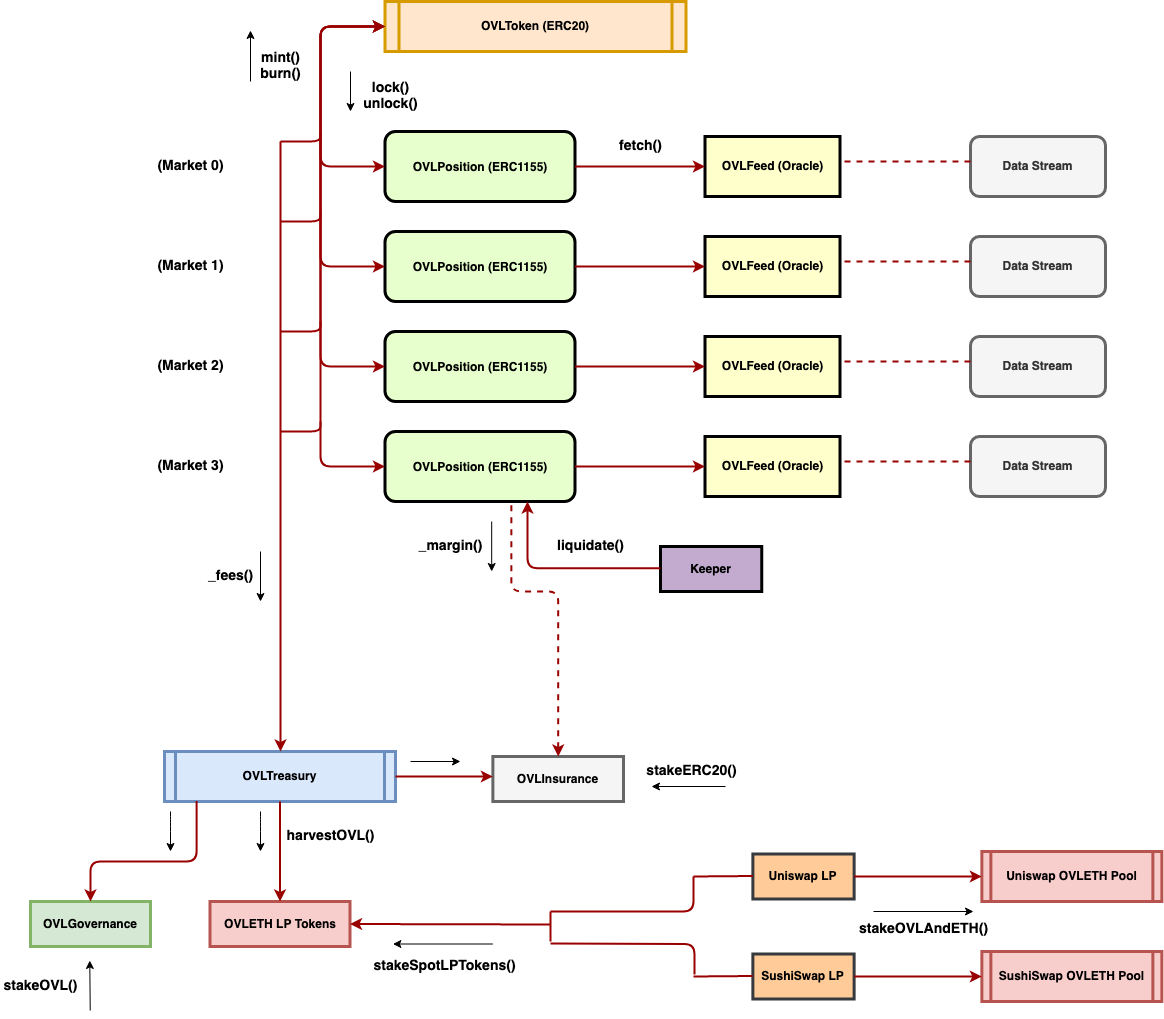
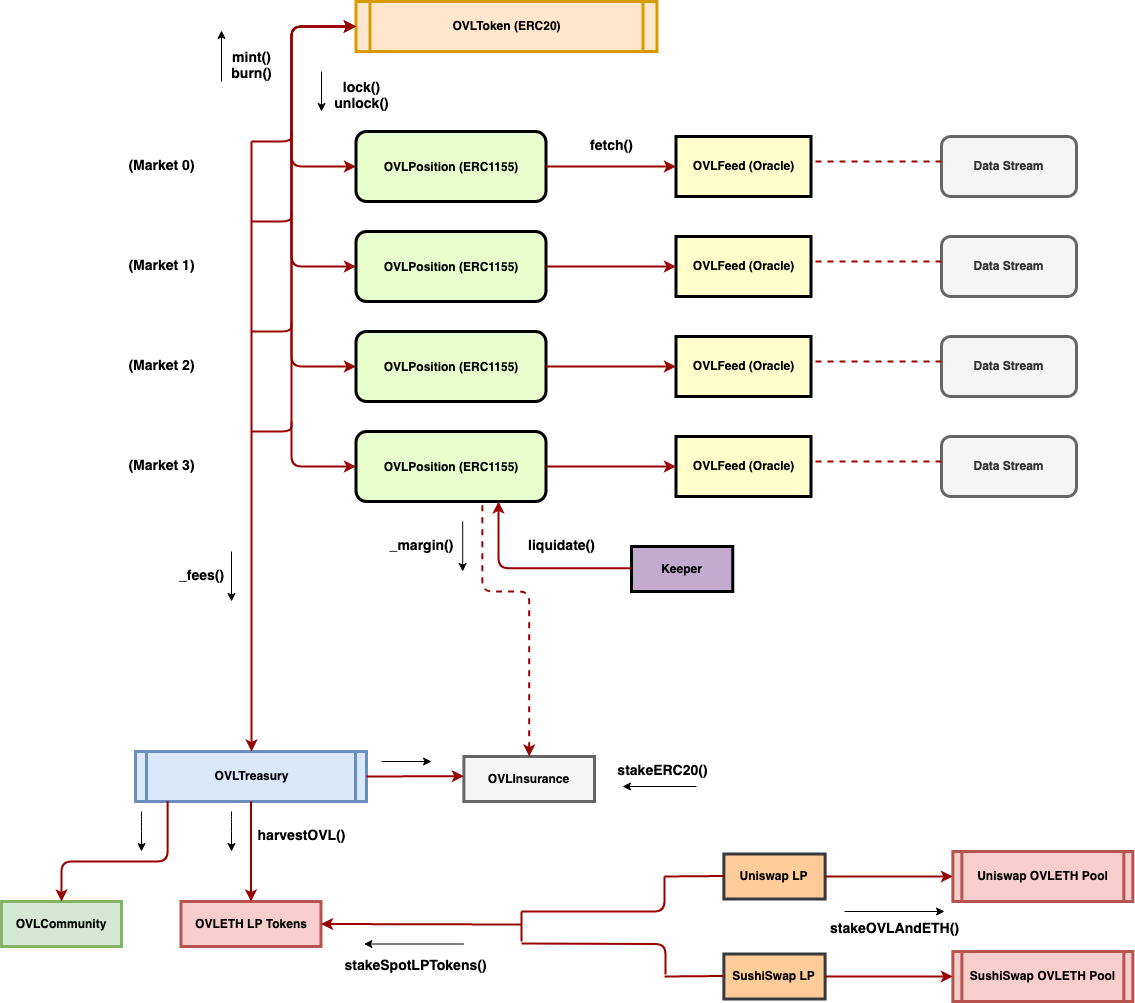
Revise incentives for community fund allocation in oip-1

diff --git a/OIPS/oip-1.md b/OIPS/oip-1.md
@@ -68,15 +68,17 @@ Given the complexity of the design changes, the rationale and trade-offs are add
 #### Monetary Policy
 Overlay's monetary policy relies on revenues from trading fees charged when a user of the protocol builds or unwinds a position on a data stream. A portion of these fees would be burned upon trade execution to help manage currency supply. The rest would be sent to a community governed treasury.
 
-Overlay’s community governed treasury would pass through these trading fees to incentivize spot market liquidity providers (LPs), governance participants, and insurance fund providers as compensation for each of their services.
+Overlay’s community governed treasury would pass through these trading fees to incentivize spot market liquidity providers (LPs), insurance fund providers, and a community operations fund as compensation for each of their services.
 
-The following is a high-level overview for each of the roles:
+The following is a high-level overview for the roles of each of the core participants supporting the protocol:
 
 - **Spot Market LPs:** enable traders to swap OVL for ETH to enter/exit the Overlay system. LPs stake their spot OVL-ETH LP tokens in the treasury contract to earn yield in OVL.
 
-- **Governance Participants:** determine the risk/reward parameters of and markets offered by the protocol to ensure the Overlay system remains useful over time. Governance participants stake OVL or OVL-ETH LP tokens in the treasury contract to earn yield in OVL.
+- **Governance Participants:** determine the risk/reward parameters of and markets offered by the protocol to ensure the Overlay system remains useful over time. Governance participants will vote off-chain at launch with 1:1 votes for every OVL held and 2:1 votes for every OVL-ETH LP token held.
 
 - **Insurance Fund Providers:** backstop the protocol by locking up collateral for a governance-determined set amount of time, with an auction-and-burn mechanism in the event of any unanticipated excessive increase in the currency supply. Insurance fund providers can stake e.g., ETH, DAI, YFI, AAVE-ETH LP, OVL-ETH LP, etc. in the treasury contract to earn yield in OVL, with downside risk of collateral loss. They also receive rights to a portion of the margin from liquidated positions to compensate them for the additional risk taken.
+
+- **Community Operations Fund:** develop the protocol (e.g. build new contracts, admin, community services) and help it grow sustainably. A portion of pass-through trading fees in OVL would be sent to this community multi-sig with governance votes determining how best to spend funds to promote the growth of the Overlay protocol and its ecosystem.
 
 OVL would act as a governance token for all decisions to adjust the system itself, giving even more weight and "skin in the game" to successful traders and liquidity providers.
 
@@ -84,7 +86,7 @@ High-level implementation details are below:
 
 ![Block Diagram](../assets/oip-1/block_diagram.png)
 
-And contracts:
+And base exchange contracts:
 
 - `OVLToken (ERC-20):` Base token with public ``mint()``, ``burn()`` functions through ``AccessControl`` privileges given to each `OVLPosition` contract. Allows holders to participate in long/short trading of data streams. Gives holders governance stake in proposed data feeds and tuning of their risk parameters. Gives holders governance control over treasury parameters: allocations of trading fee pass-through revenues.
 
@@ -98,23 +100,23 @@ The rewards for each treasury participant supporting the protocol would be rathe
 
 where \\(\sum_{i=1}^{N}{V_{i}}\\) is the volume over all \\(N\\) markets offered by the Overlay protocol during the period between funding payments. \\(f_{i}\\) is the average trading fee during that period on market \\(i\\). \\(r_{b}\\) is the portion of trading fees that are burned to manage currency supply. \\(r_{p}\\) is the portion of pass-through trading fee revenue for the associated capital pool. Spot market liquidity for the OVL token would be enabled by this continuous stream of Overlay trading fees to staking OVL-ETH spot LPs, as long as trading volume remains substantial enough to warrant staking. An initial liquidity mining token distribution phase would bootstrap the process. This spot market liquidity incentive creates a feedback loop to offer a price feed for OVL-ETH on the Overlay trading platform, that traders can then use to hedge out a portion of their OVL risk for their positions in other Overlay markets, given all trades are settled in OVL.
 
-To handle unanticipated extreme wins that significantly increase the currency supply beyond the accumulated fee burn mechanism, we propose an insurance fund that is similar in nature to the Aave safety module [[2]](#aave-2020). Insurance providers stake collateral in the form of ETH, DAI, YFI, AAVE-ETH LP, OVL-ETH LP, etc. to earn yield in OVL via pass-through trading fees to the treasury. Additionally, insurance providers receive margin inflows (less keeper and burn fees) from liquidated positions on the platform, to appropriately compensate them for the significant risk taken to backstop the protocol. This insurance staked ERC-20 collateral would be locked for a governance-determined set amount of time within the treasury contract. To backstop the system in the event the currency supply increases beyond a governance-set threshold value (e.g., 20% beyond initial distribution), the treasury begins auctioning off the staked collateral in exchange for OVL at a rate of \\(n_c = (n_{OVL} / S_{OVL}) \cdot S_{c} \\) received collateral tokens for \\(n_{OVL}\\) bid OVL tokens. \\(S_{OVL}\\) is total circulating supply of OVL and \\(S_c\\) is total collateral of a particular ERC-20 token remaining in the insurance pool. The treasury then burns the received OVL tokens to drive the supply back down. The offering window remains open until the supply threshold is no longer breached either by supply burns or by governance raising the supply threshold.
+To handle unanticipated extreme wins that significantly increase the currency supply beyond the accumulated fee burn mechanism, we propose an insurance fund that is similar in nature to the Aave safety module [[2]](#aave-2020). Insurance providers stake collateral in the form of ETH, DAI, YFI, AAVE-ETH LP, OVL-ETH LP, etc. to earn yield in OVL via pass-through trading fees to the treasury. Additionally, insurance providers receive margin inflows (less keeper and burn fees) from liquidated positions on the platform, to appropriately compensate them for the significant risk taken to backstop the protocol. This insurance staked ERC-20 collateral would be locked for a set amount of time within the treasury contract. To backstop the system in the event the currency supply increases beyond a governance-set threshold value (e.g., 20% beyond initial distribution), the treasury begins auctioning off the staked collateral in exchange for OVL at a rate of \\(n_c = (n_{OVL} / S_{OVL}) \cdot S_{c} \\) received collateral tokens for \\(n_{OVL}\\) bid OVL tokens. \\(S_{OVL}\\) is total circulating supply of OVL and \\(S_c\\) is total collateral of a particular ERC-20 token remaining in the insurance pool. The treasury then burns the received OVL tokens to drive the supply back down. The offering window remains open until the supply threshold is no longer breached either by supply burns or by governance raising the supply threshold.
 
 These mechanisms for managing currency supply would offer alternatives to requiring a ceiling to the total supply and caps on individual trades, although it is still uncertain how supply will behave in practice. In summary, the revenue model for the protocol would be fees (in OVL) of 0.30% per trade, adjustable by governance on a feed-by-feed basis:
 
 - 50% is burned
 
-- 50% is sent to a community governed treasury with incentives for spot market OVL-ETH LPs, governance participants, and insurance fund providers
+- 50% is sent to a community governed treasury with incentives for spot market OVL-ETH LPs and insurance fund providers
 
-To incentivize OVL-ETH liquidity providers, governance contributors, and insurance providers in perpetuity, the pass-through revenues to the Overlay treasury would be split:
+To incentivize OVL-ETH liquidity providers, insurance providers, and development within the community in perpetuity, the suggested pass-through fees to the Overlay treasury would be split at launch:
 
-- 33.33% to OVL-ETH LPs staking
+- 60.00% to OVL-ETH LPs staking
 
-- 33.33% to governance OVL stakers that vote
+- 30.00% to ERC-20 stakers in insurance fund
 
-- 33.33% to ERC-20 stakers in insurance fund
+- 10.00% to the community fund
 
-The weighting factors for each actor, fee rates, and fee burn can be adjusted by governance. OVL-ETH LPs will be able to use their LP tokens to participate in governance for \\(r_{LP} + r_{gov}\\) of the rewards (i.e., acting as both roles). Further, they can earn \\(r_{LP} + r_{gov} + r_{insurance} = 100\% \\) of the pass-through fee rewards plus a pro-rata share of rights to insurance fund inflows from position liquidations by additionally risking their LP collateral in the insurance fund itself. Eventually the Overlay protocol could lend out the locked OVL from positions for capital efficiency and additional revenue.
+The weighting factors for each actor, fee rates, and fee burn can be adjusted by governance. Further, OVL-ETH LPs can also earn \\(r_{LP} + r_{insurance} = 90\% \\) of the pass-through fee rewards plus a pro-rata share of rights to insurance fund inflows from position liquidations by additionally risking their LP collateral in the insurance fund itself. Eventually the Overlay protocol could lend out the locked OVL from positions for capital efficiency and additional revenue.
 
 #### Pricing Mechanism
 Overlay's pricing mechanism would be updated to float the current price on each market offered by the protocol. Price discovery would occur on each Overlay market separate from the underlying feed itself, and thus information associated with each trade on Overlay would enter the market price offered to traders.
